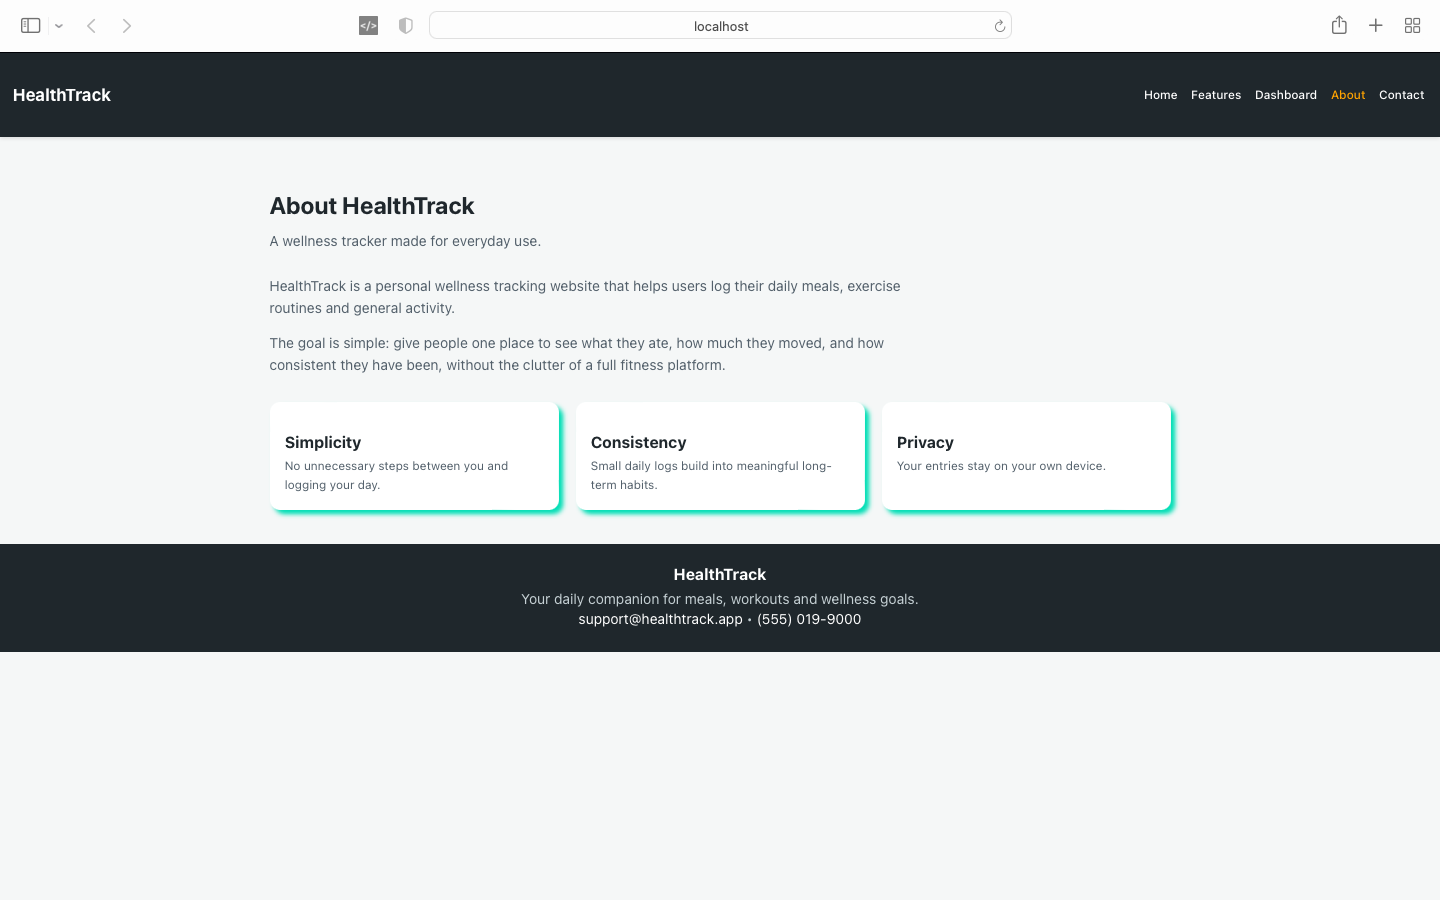
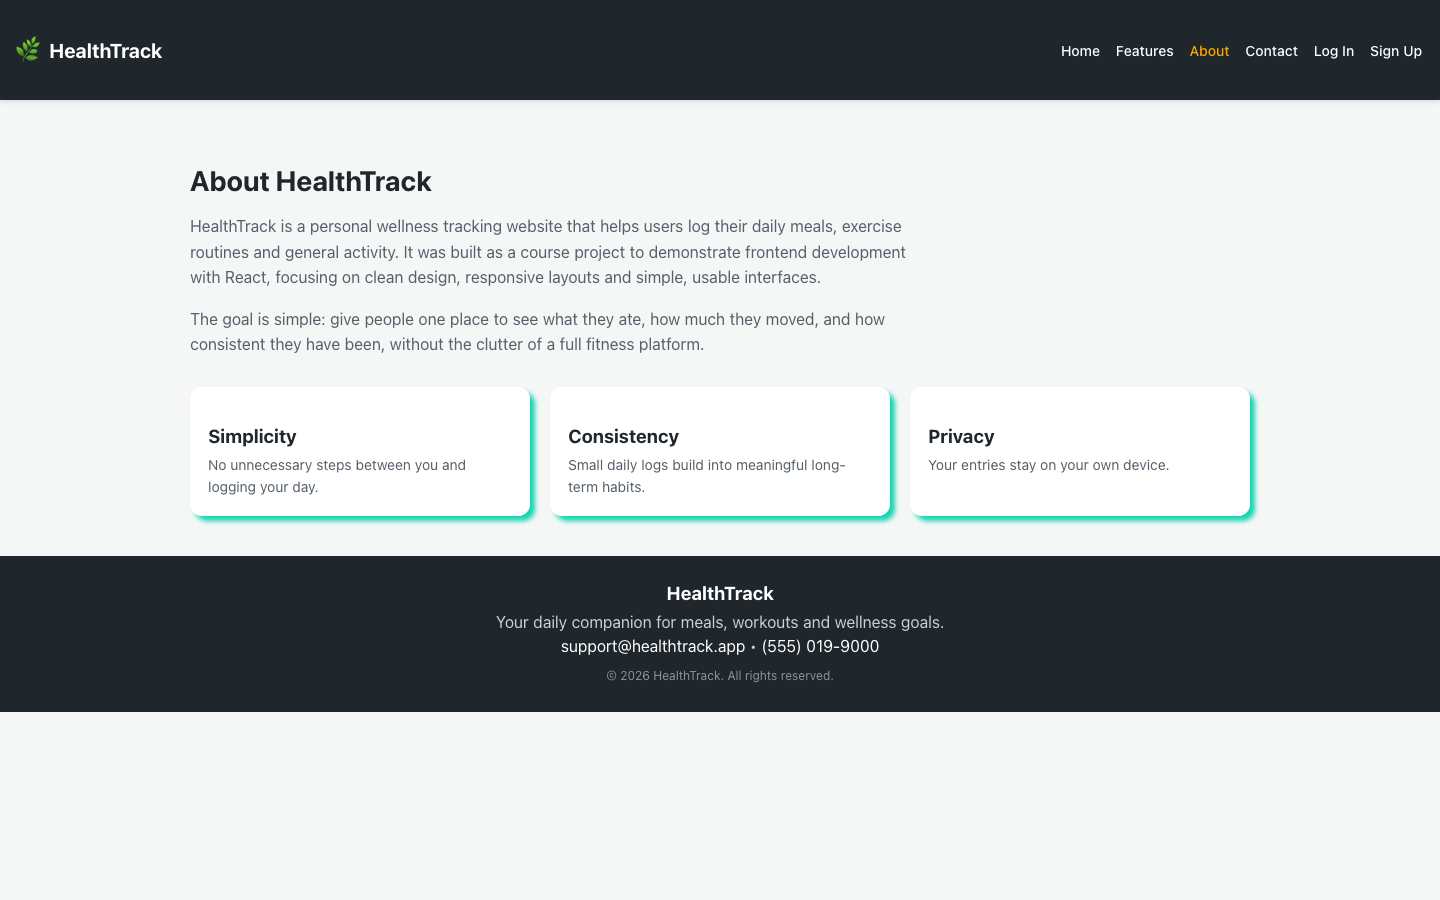
Replace screenshots with fresh Phase 2 captures
Recaptures every page from the running app, including the three that had
no screenshot before (Log In, Sign Up, Admin Panel). The previous images
were Phase 1 and no longer matched: the Dashboard had no calorie-goal
card and Contact still showed the old name/email/message form.

Captured headless at 1440x900 against the local dev servers.

diff --git a/README.md b/README.md
@@ -233,19 +233,32 @@ healthtrack/
 ### Features
 ![Features page](./screenshots/features.png)
 
+### Sign Up
+![Sign Up page](./screenshots/signup.png)
+
+### Log In
+![Log In page](./screenshots/login.png)
+
 ### Dashboard
+The user's own view: an admin-set calorie goal with a progress bar, live
+totals, the entry form, and every logged entry.
+
 ![Dashboard page](./screenshots/dashboard.png)
+
+### Contact
+Questions are tied to the logged-in account, so the user sees the admin's
+answer once it is posted.
+
+![Contact page](./screenshots/contact.png)
+
+### Admin Panel
+The questions inbox (answered and unanswered), plus one expanded user card
+showing their totals, calorie goal, recent entries and notes.
+
+![Admin Panel](./screenshots/admin.png)
 
 ### About
 ![About page](./screenshots/about.png)
-
-### Contact
-![Contact page](./screenshots/contact.png)
-
-> These captures are from Phase 1 and predate the backend. The Dashboard
-> shown has no calorie-goal card, and the Contact page still shows the old
-> name/email/message form rather than the logged-in question form. The
-> Login, Sign Up and Admin Panel pages have no captures yet.
 
 ## Conclusion & Future Scope
 
